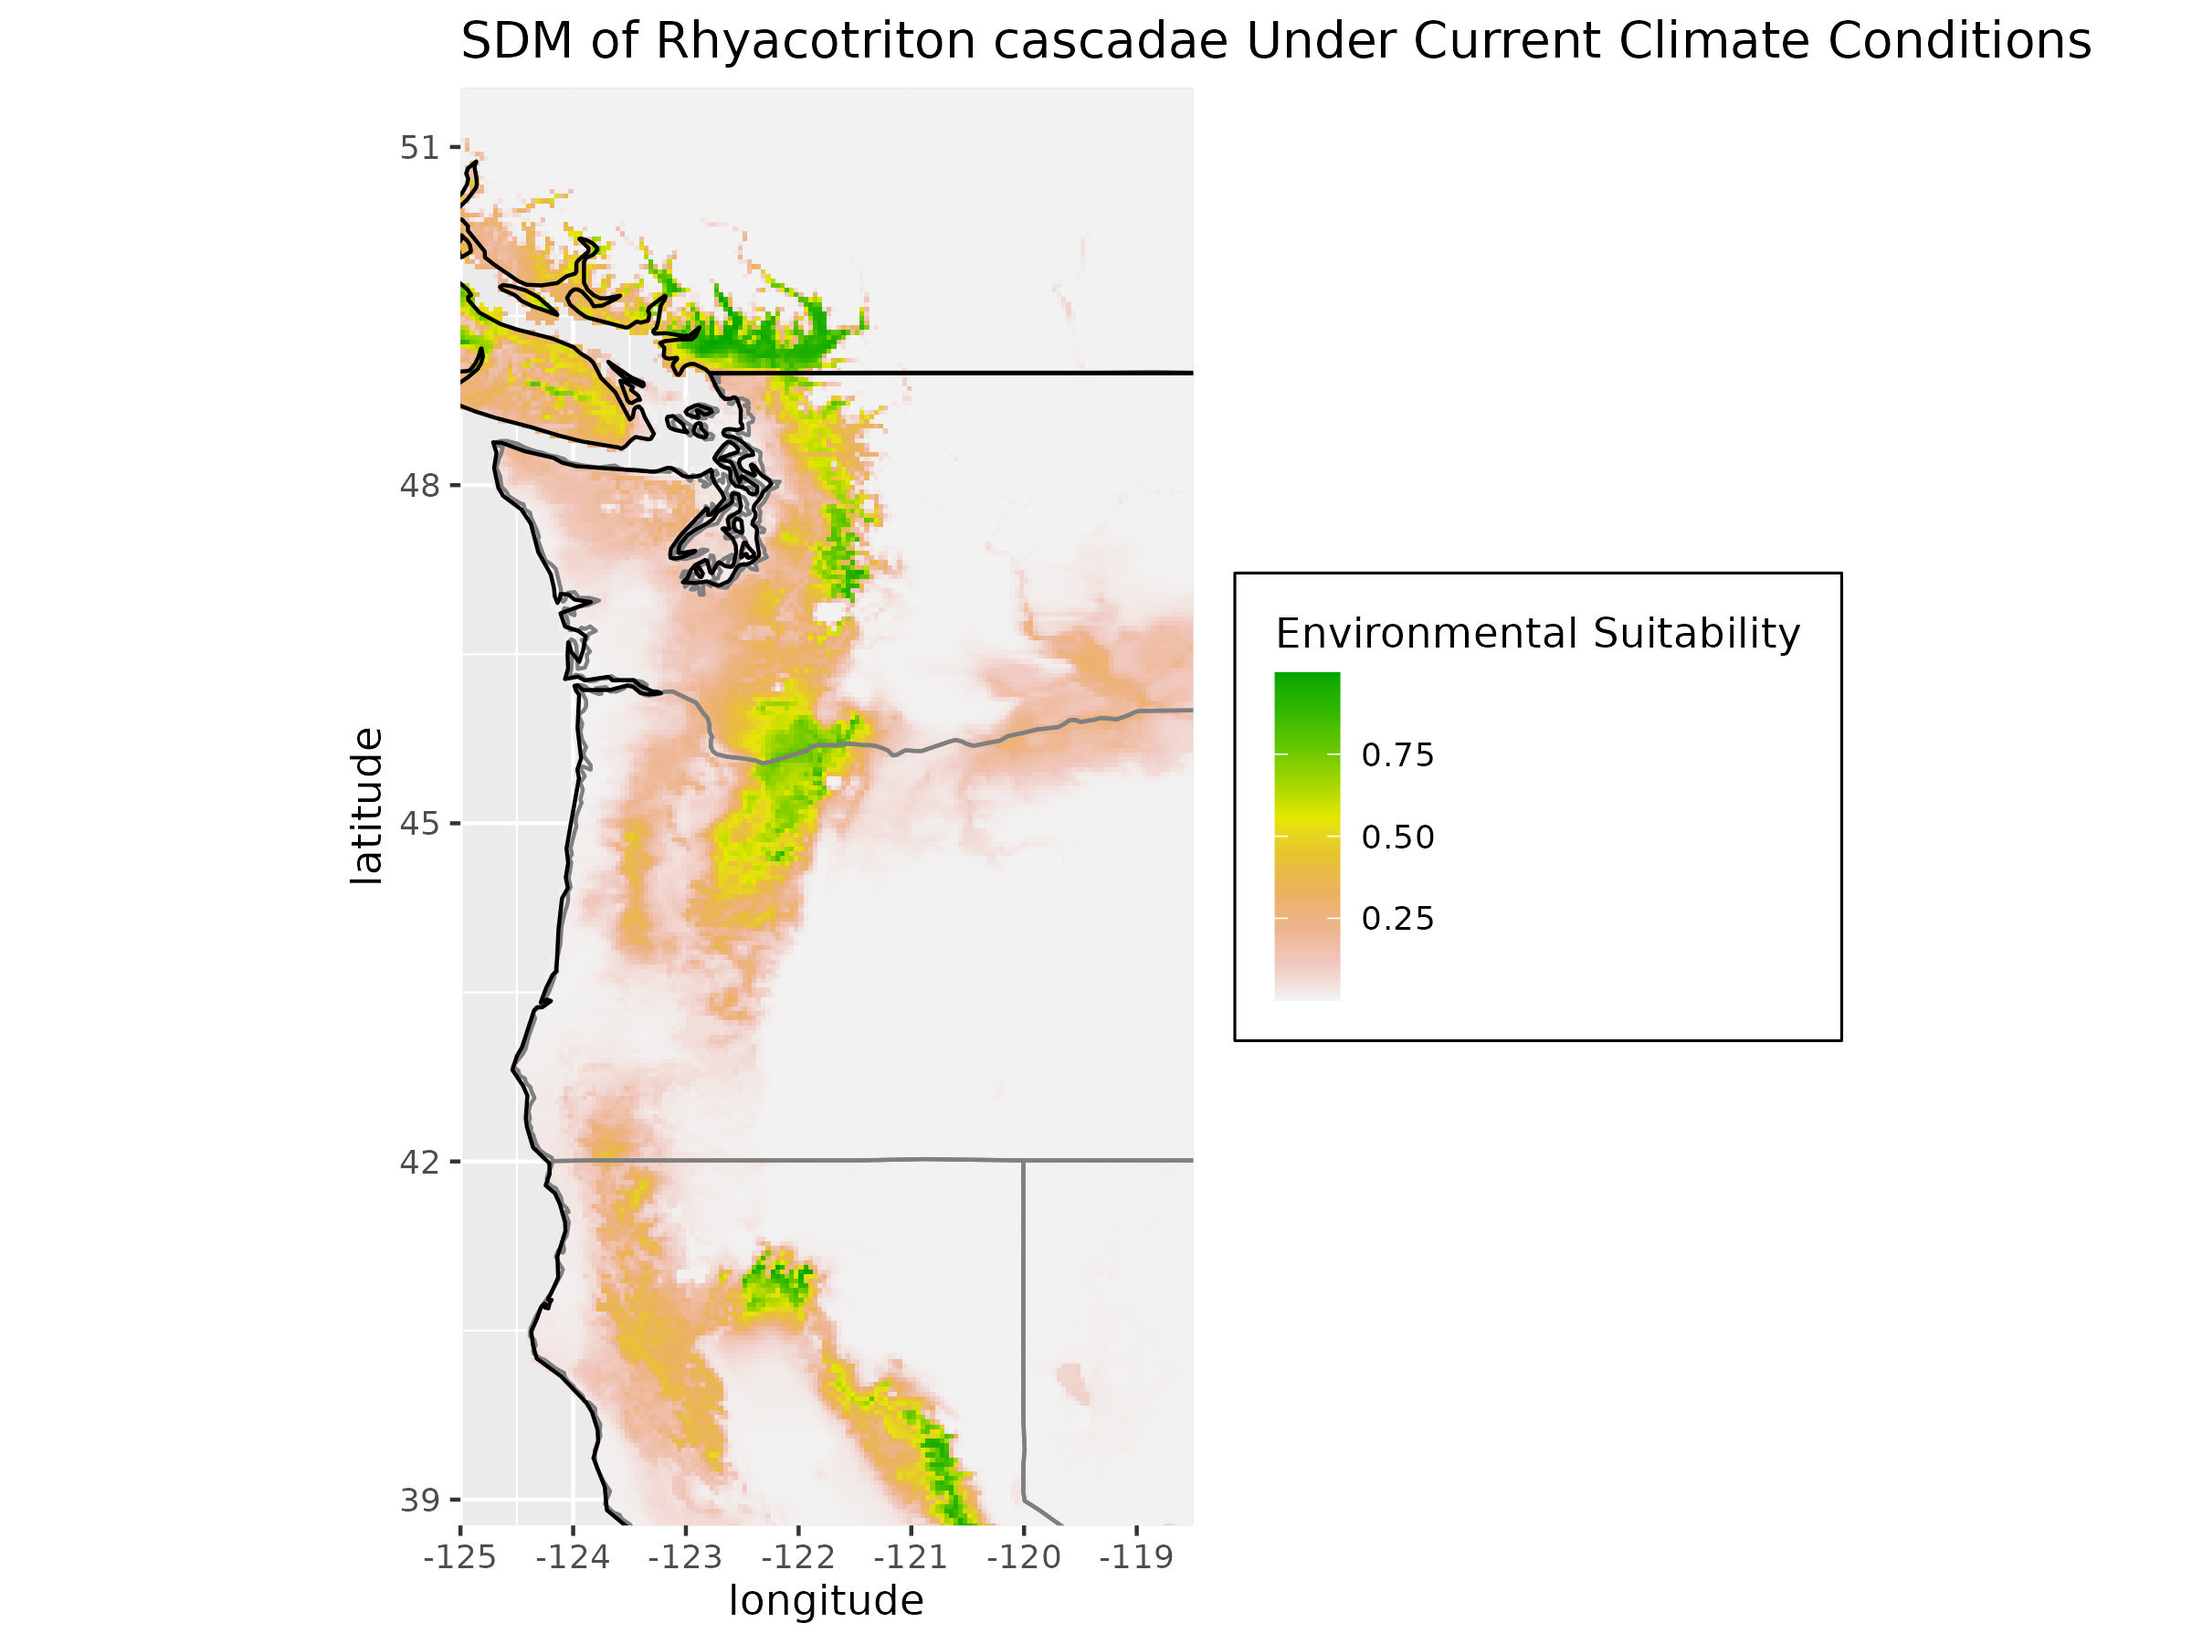
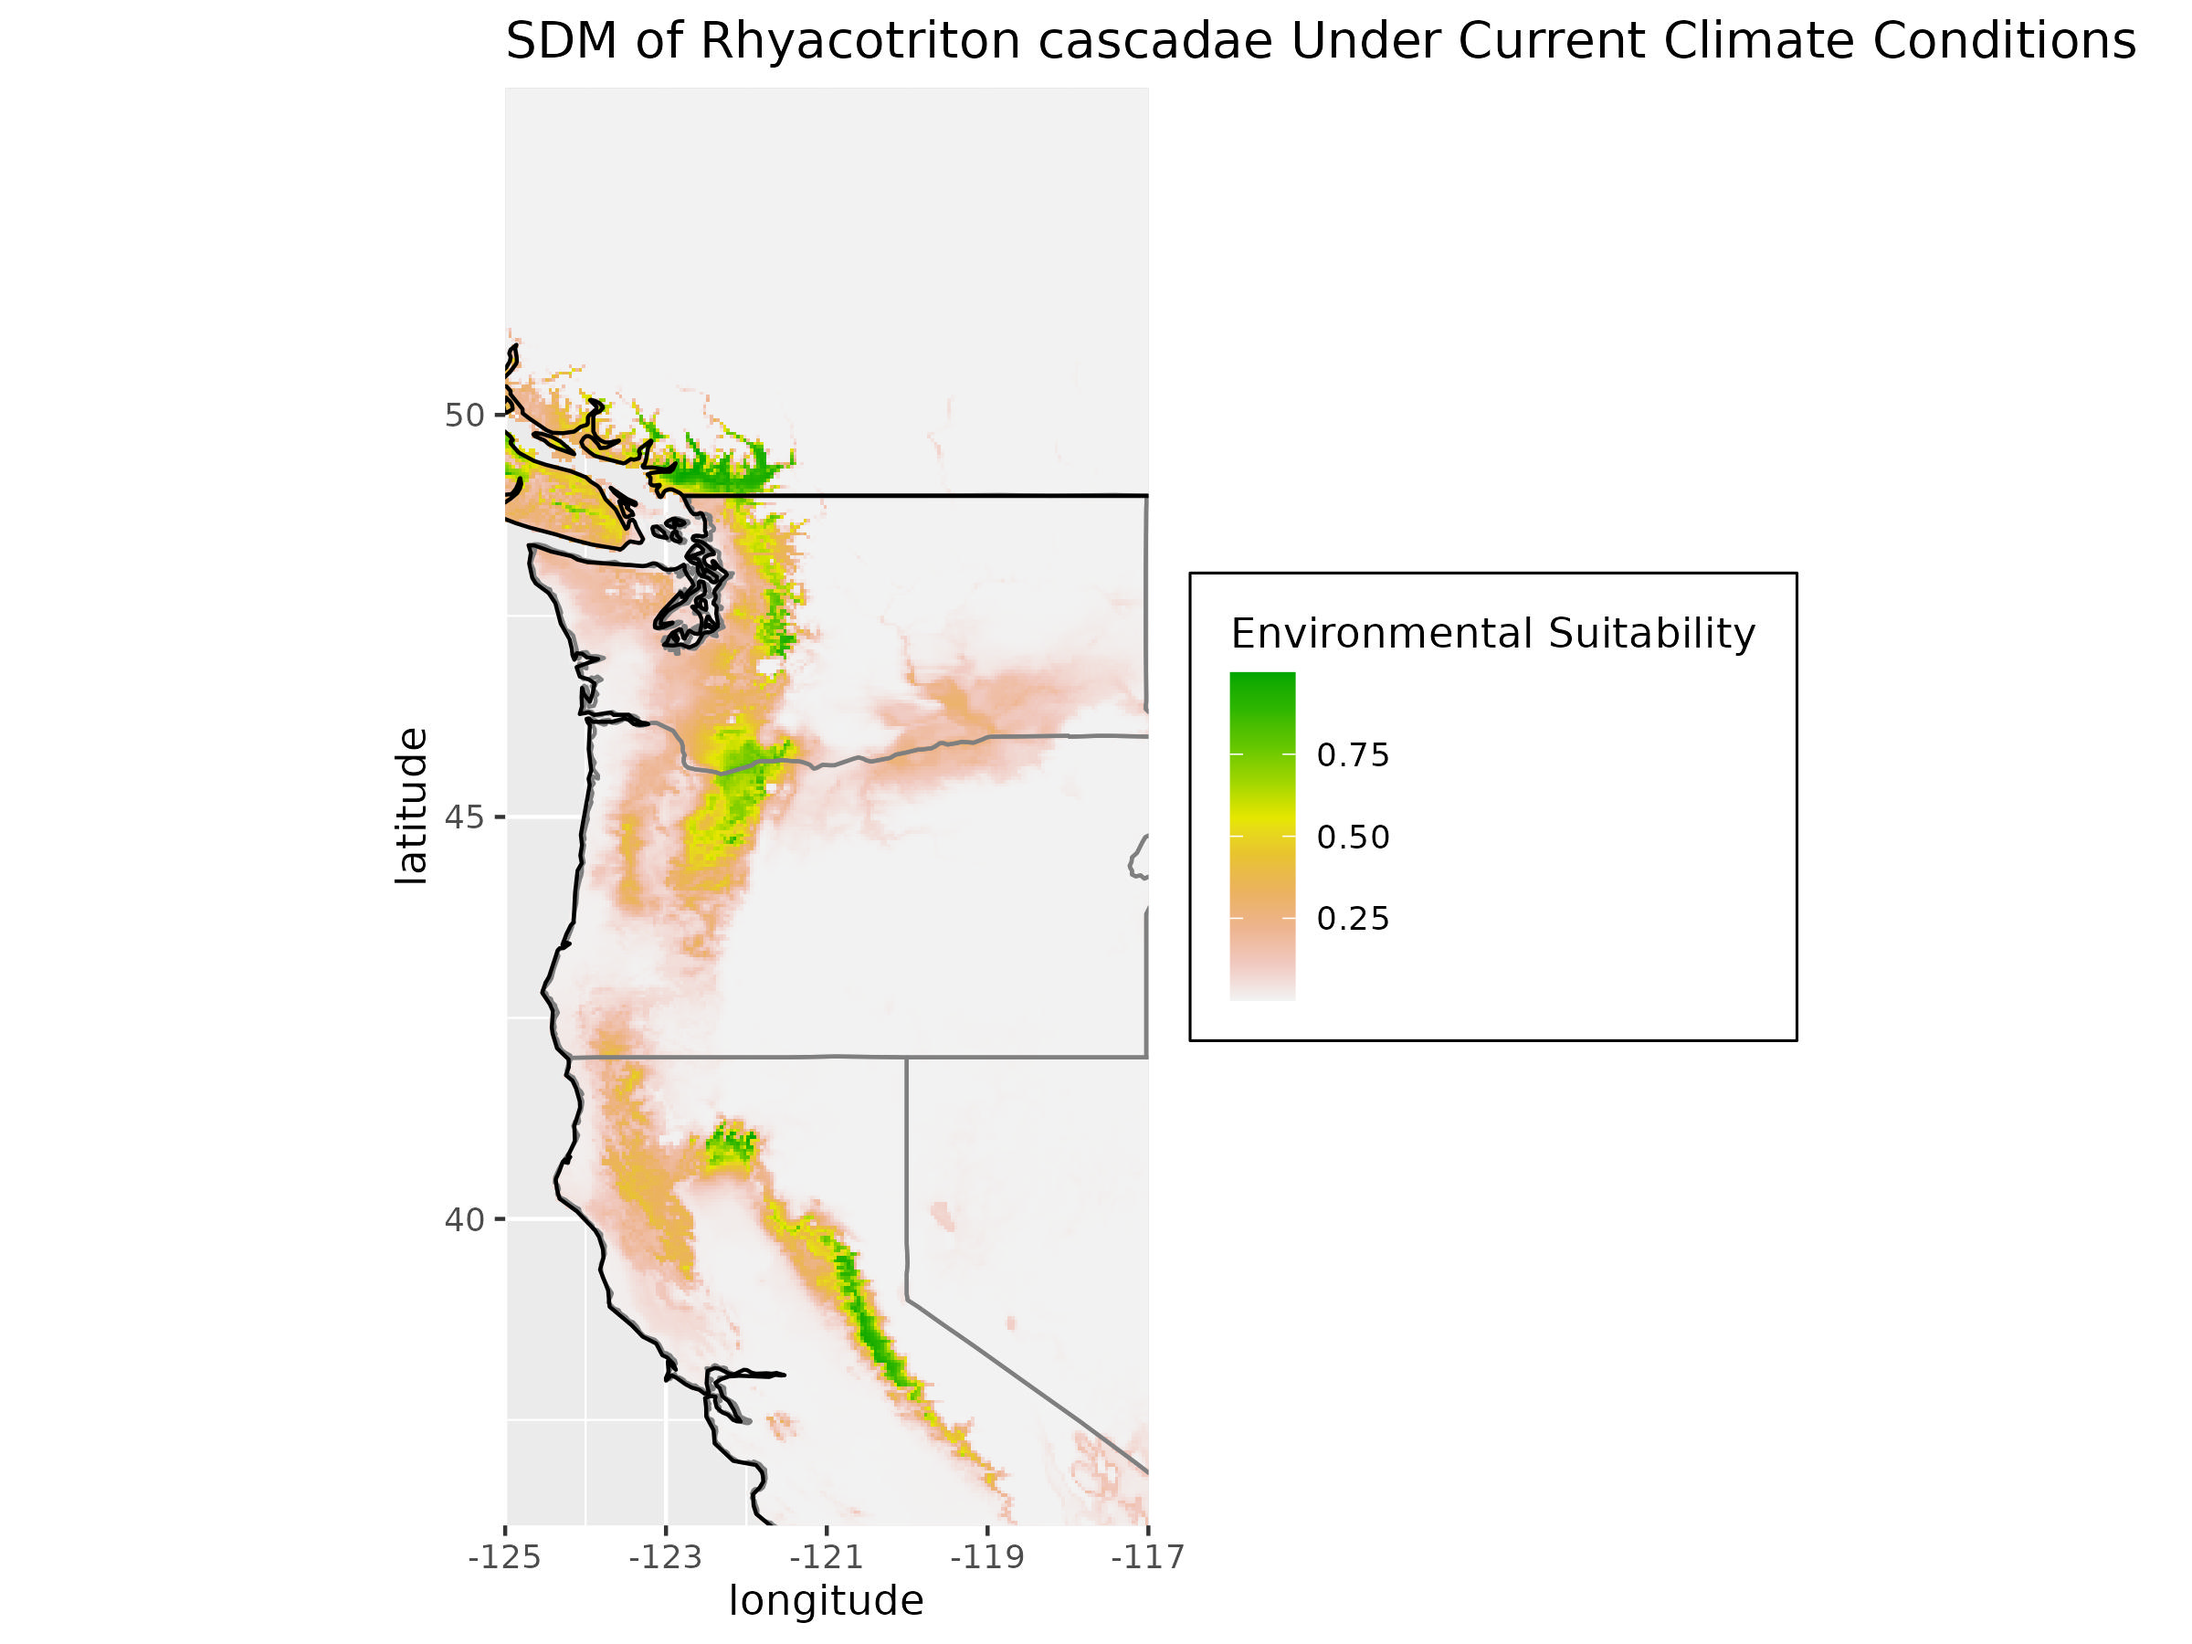
Added zoomed out current and future SDMs

diff --git a/maxent_outputs/maxent.html b/maxent_outputs/maxent.html
@@ -1,6 +1,6 @@
 <title>Maxent model</title>
 <CENTER><H1>Maxent model</H1></CENTER>
-<br> This page contains some analysis of the Maxent model result, created Tue Apr 02 18:57:52 UTC 2024 using 'dismo' version  1.3-14 & Maxent version 3.4.3.  If you would like to do further analyses, the raw data used here is linked to at the end of this page.<br>
+<br> This page contains some analysis of the Maxent model result, created Tue Apr 02 19:06:24 UTC 2024 using 'dismo' version  1.3-14 & Maxent version 3.4.3.  If you would like to do further analyses, the raw data used here is linked to at the end of this page.<br>
 <br><HR><H2>Analysis of omission/commission</H2>
 The following picture shows the omission rate and predicted area as a function of the cumulative threshold.  The omission rate is is calculated both on the training presence records, and (if test data are used) on the test records.  The omission rate should be close to the predicted omission, because of the definition of the cumulative threshold.
 <br><img src="plots/species_omission.png"><br>

diff --git a/maxent_outputs/species.html b/maxent_outputs/species.html
@@ -1,6 +1,6 @@
 <title>Maxent model for species</title>
 <CENTER><H1>Maxent model for species</H1></CENTER>
-<br> This page contains some analysis of the Maxent model for species, created Tue Apr 02 18:57:52 UTC 2024 using Maxent version 3.4.3.  If you would like to do further analyses, the raw data used here is linked to at the end of this page.<br>
+<br> This page contains some analysis of the Maxent model for species, created Tue Apr 02 19:06:24 UTC 2024 using Maxent version 3.4.3.  If you would like to do further analyses, the raw data used here is linked to at the end of this page.<br>
 <br><HR><H2>Analysis of omission/commission</H2>
 The following picture shows the omission rate and predicted area as a function of the cumulative threshold.  The omission rate is is calculated both on the training presence records, and (if test data are used) on the test records.  The omission rate should be close to the predicted omission, because of the definition of the cumulative threshold.
 <br><img src="plots/species_omission.png"><br>
